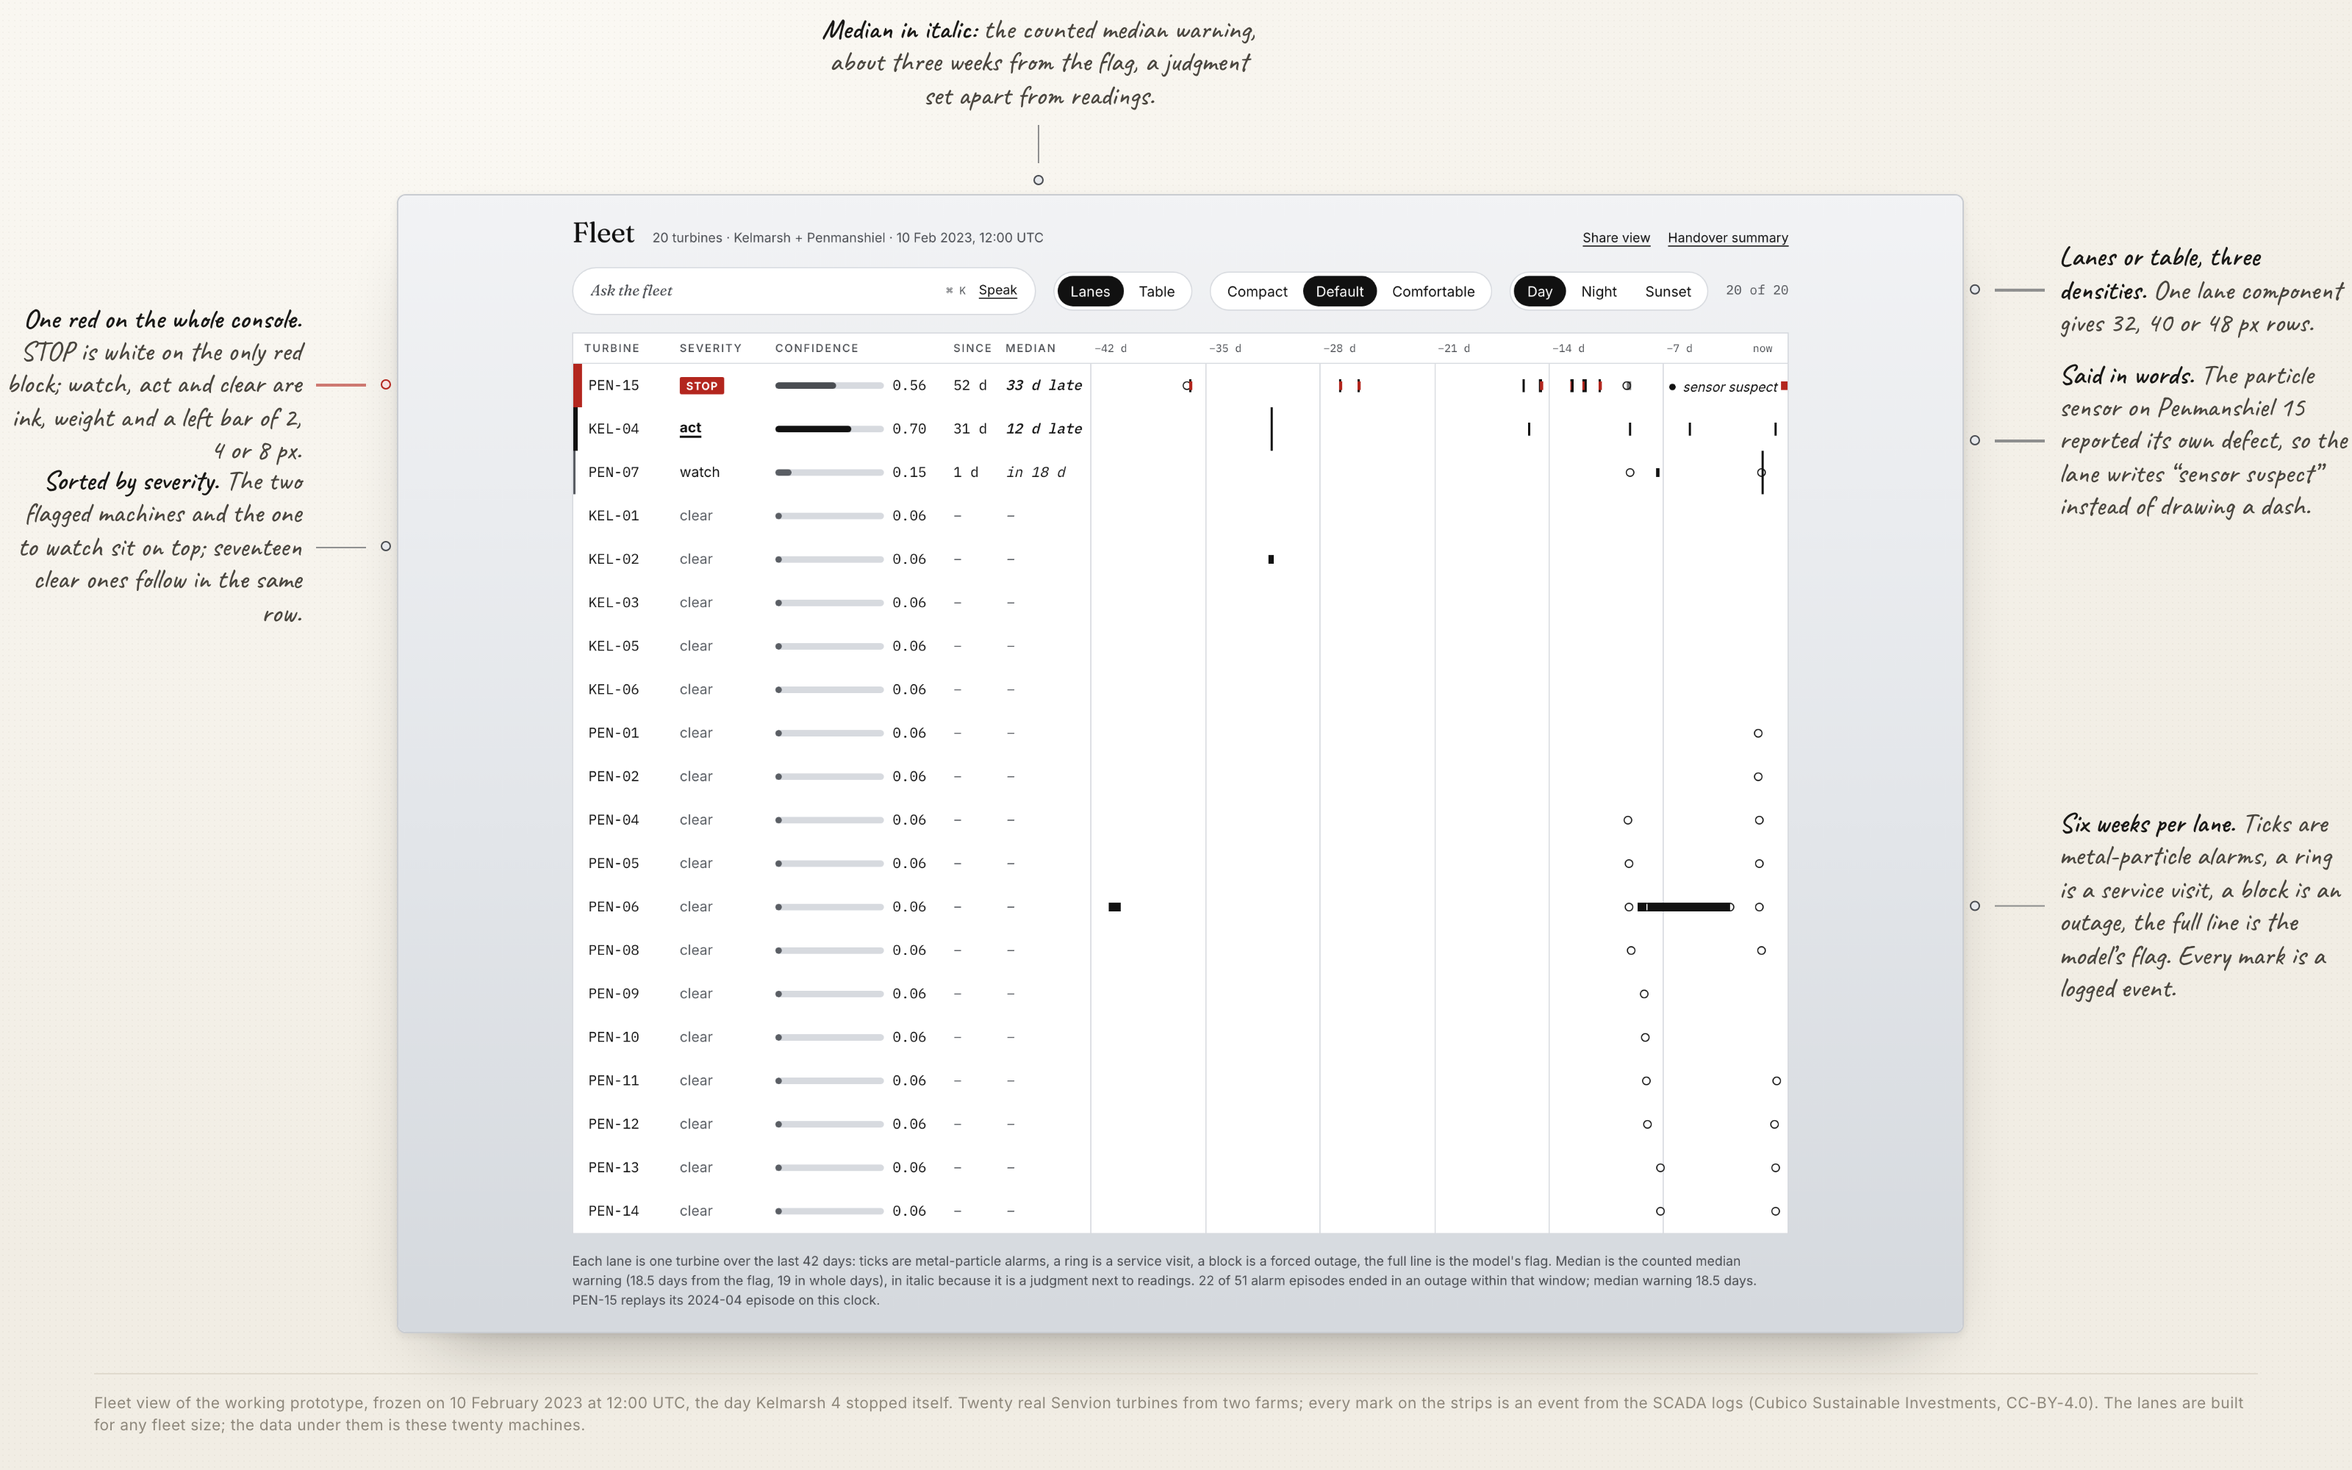
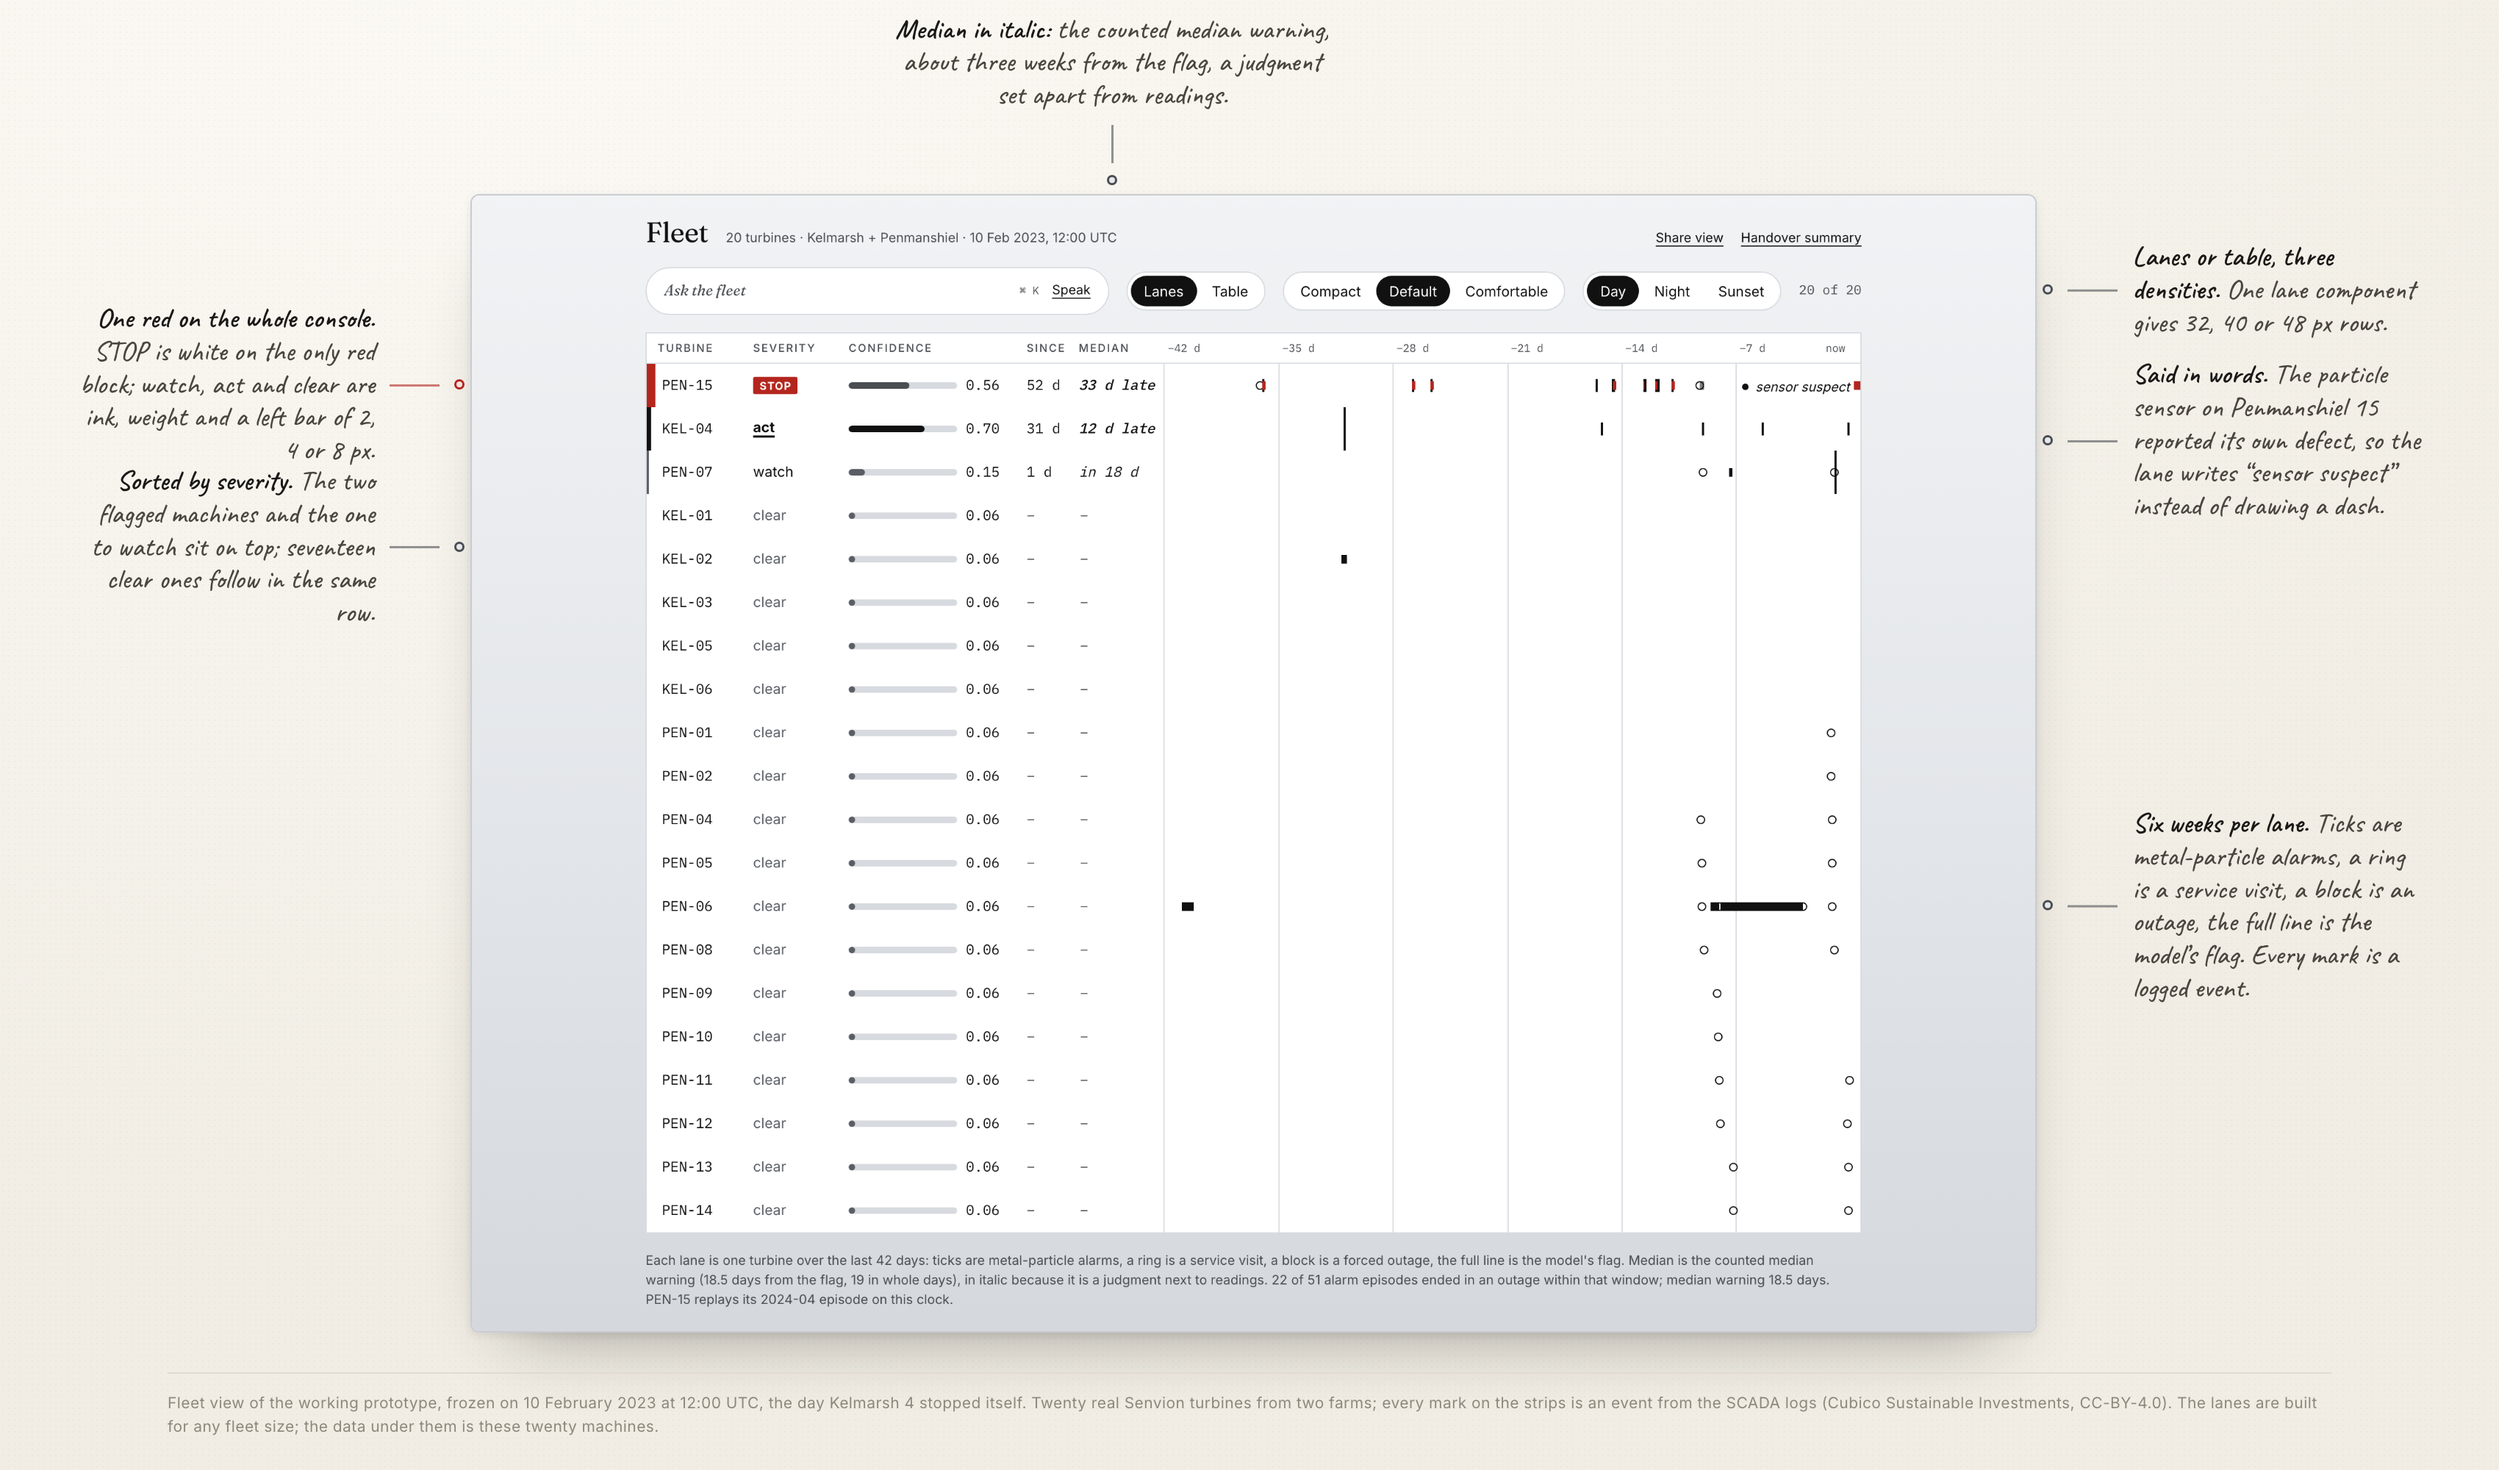
Case studies: photos and fleet-console plates share the wide column
One photo per case study (repapp's context shot, red-thread's evidence
diagram, fleet-console's tablet-on-site photo) gets the wide figure
treatment already used elsewhere, via the wide class in the markup and
wide:true in ASSETS. Six of the seven fleet-console plates are
re-rendered at the matching 3400px canvas so they fill that column
without looking narrower than the photos next to them.

a11y.png/webp is left out: the wider canvas broke its side-note
layout, with two annotations overlapping the chart and the keyboard-
path text. It needs a fresh render before it can join this change.

diff --git a/fleet-console.html b/fleet-console.html
@@ -514,7 +514,7 @@ footer.foot .next-h em{font-style:italic;color:var(--accent);}
       <h2 class="h">The library exists so that one number cannot contradict itself on two screens</h2><p><strong>The base primitives come from the shadcn/ui kit.</strong> I did not redraw them. A button, an input, a radio group, a text area: that is plumbing, and&nbsp;drawing it again proves nothing. Everything the project exists for sits above that line, and&nbsp;that part is mine. The density scale. The lane and&nbsp;its marks. The data cell. The chart palette. The confidence bar and&nbsp;panel. The provenance line. The override path. The severity matrix. Twenty-seven component sets in all.</p><p><strong>Variables first, components second.</strong> Colour, spacing, type, radius and&nbsp;motion live as Figma variables in six collections. Every component reads them. None carries a value of its own. Colour is a decision as much as a token: black, white, metallic grey and&nbsp;one red, spent only on STOP. A red-and-green pair fails colour-blind operators, and&nbsp;“clear” has to stay quiet. The same 24 tokens give two modes, paper on metal by day and&nbsp;graphite by night. The console switches at the wind farm’s own sunset. Density is a mode too, so one lane draws at three row heights without a second component.</p><p><strong>The chain runs one way.</strong> Figma variables become CSS custom properties. Those become a Tailwind theme. The prototype reads the theme. The variables export to a JSON file that generates the theme, so nothing in the code carries a colour, a size or a duration of its own. Change a value in one place and&nbsp;the other cannot quietly disagree. That is why the system was drawn before the prototype, not traced back from it afterwards.</p></div><figure class="fig reveal wide">
       <img src="fleet-console/assets/system.webp" alt="The library as the prototype sees it: the 24 colour tokens in both modes, the three densities, the components drawn by the console’s own compiled stylesheet, the same lane at three row heights, and one token followed from a Figma variable to a component." loading="lazy">
       <figcaption><span>The library as the prototype sees it: the 24 colour tokens in both modes, the three densities, the components drawn by the console’s own compiled stylesheet, the same lane at three row heights, and&nbsp;one token followed from a Figma variable to a component.</span></figcaption>
-    </figure><figure class="fig reveal">
+    </figure><figure class="fig reveal wide">
       <img src="fleet-console/assets/photo-tablet-day.webp" alt="The technician’s side of the same system: a tablet on site, where the service order arrives. Staged image." loading="lazy">
       <figcaption><span>The technician’s side of the same system: a tablet on site, where the service order arrives. Staged image.</span></figcaption>
     </figure></section><section class="sec" id="unsure"><div class="col">
@@ -716,7 +716,7 @@ const ASSETS = {
     cap:{en:'The setting: a turbine field at the end of the day, where the model’s number lands on somebody’s screen. Staged image, not a photograph of the farms in the data.',
          no:'Stedet: et turbinfelt på slutten av dagen, der modellens tall lander på noens skjerm. Iscenesatt bilde, ikke et fotografi av parkene i dataene.',
          es:'El escenario: un campo de turbinas al final del día, donde el número del modelo aterriza en la pantalla de alguien. Imagen escenificada, no una fotografía de los parques de los datos.'} },
-  tabletDay:{ type:'img', src:'fleet-console/assets/photo-tablet-day.webp',
+  tabletDay:{ type:'img', wide:true, src:'fleet-console/assets/photo-tablet-day.webp',
     cap:{en:'The technician’s side of the same system: a tablet on site, where the service order arrives. Staged image.',
          no:'Teknikerens side av det samme systemet: et nettbrett ute i felt, der serviceordren kommer. Iscenesatt bilde.',
          es:'El lado del técnico del mismo sistema: una tableta a pie de parque, donde llega la orden de servicio. Imagen escenificada.'} },

diff --git a/red-thread.html b/red-thread.html
@@ -567,7 +567,7 @@ footer.foot .next-h em{font-style:italic;color:var(--accent);}
       <figcaption><span>The Storting in Oslo, where the 2022 cooperation duty was written. Photo: Leonhard Lenz, Wikimedia Commons, CC0.</span></figcaption>
     </figure></section><section class="sec" id="evidence"><div class="col">
       <div class="eyebrow"><b>05</b> · The evidence</div>
-      <h2 class="h">Norway even measured it, and&nbsp;the honest result pointed somewhere new</h2><p>Few countries test their own reforms this rigorously. Between 2017 and&nbsp;2020 Norway trialled a structured model for the team around the pupil across 37 schools, with extra school-nurse time. It was run as <strong>a randomised study</strong>. Collaboration between the adults improved on several measures. <strong>The effect on pupils’ own learning environment was not significant.</strong> That honesty is the gift here. The people around the child were working together better. <strong>The thing the child carries had still not caught up.</strong></p></div><figure class="fig reveal">
+      <h2 class="h">Norway even measured it, and&nbsp;the honest result pointed somewhere new</h2><p>Few countries test their own reforms this rigorously. Between 2017 and&nbsp;2020 Norway trialled a structured model for the team around the pupil across 37 schools, with extra school-nurse time. It was run as <strong>a randomised study</strong>. Collaboration between the adults improved on several measures. <strong>The effect on pupils’ own learning environment was not significant.</strong> That honesty is the gift here. The people around the child were working together better. <strong>The thing the child carries had still not caught up.</strong></p></div><figure class="fig reveal wide">
       <img src="red-thread/assets/evidence.webp" alt="The trial drawn whole: 37 schools randomised between the team model and usual practice; three years later the adults’ sense of collaboration had risen, and the pupil’s own environment had not moved." loading="lazy">
       <figcaption><span>The trial drawn whole: 37 schools randomised between the team model and&nbsp;usual practice; three years later the adults’ sense of collaboration had risen, and&nbsp;the pupil’s own environment had not moved.</span></figcaption>
     </figure></section><section class="sec" id="reframe"><div class="col">
@@ -818,7 +818,7 @@ const ASSETS = {
          no:'Stortinget i Oslo, der samarbeidsplikten fra 2022 ble vedtatt. Foto: Leonhard Lenz, Wikimedia Commons, CC0.',
          es:'El Storting en Oslo, donde se redactó el deber de cooperación de 2022. Foto: Leonhard Lenz, Wikimedia Commons, CC0.'} },
 
-  evidence:{ type:'img', src:'red-thread/assets/evidence.webp',
+  evidence:{ type:'img', wide:true, src:'red-thread/assets/evidence.webp',
     cap:{en:'The trial drawn whole: 37 schools randomised between the team model and usual practice; three years later the adults’ sense of collaboration had risen, and the pupil’s own environment had not moved.',
          no:'Studien tegnet hel: 37 skoler randomisert mellom lagmodellen og vanlig praksis; tre år senere hadde de voksnes opplevelse av samarbeid steget, og elevens eget miljø hadde ikke flyttet seg.',
          es:'El ensayo dibujado entero: 37 escuelas aleatorizadas entre el modelo de equipo y la práctica habitual; tres años después, la sensación de colaboración entre los adultos había subido, y el entorno del propio alumno no se había movido.'} },

diff --git a/repapp.html b/repapp.html
@@ -503,7 +503,7 @@ footer.foot .next-h em{font-style:italic;color:var(--accent);}
 
   <article id="article"><!--prerendered--><section class="sec" id="origin"><div class="col">
       <div class="eyebrow"><b>01</b> · Origin</div>
-      <h2 class="h">Nobody had designed anything for the destination reps yet</h2><p>The project surfaced during Itaka’s platform redesign. The destination reps meet flights, run transfers and&nbsp;sell excursions across <strong>more than 100 destinations</strong>. <strong>No one had built a tool for them.</strong> That gap became a brief.</p></div><figure class="fig reveal">
+      <h2 class="h">Nobody had designed anything for the destination reps yet</h2><p>The project surfaced during Itaka’s platform redesign. The destination reps meet flights, run transfers and&nbsp;sell excursions across <strong>more than 100 destinations</strong>. <strong>No one had built a tool for them.</strong> That gap became a brief.</p></div><figure class="fig reveal wide">
       <img src="RepApp/assets/photo-context.webp" alt="A destination rep with the printed Itaka clipboard and pen. The guest-facing job, and the paper tool, that no one had yet designed for." loading="lazy">
       <figcaption><span>A destination rep with the printed Itaka clipboard and&nbsp;pen. The guest-facing job, and&nbsp;the paper tool, that no one had yet designed for.</span></figcaption>
     </figure></section><section class="sec" id="paper"><div class="col">
@@ -748,7 +748,7 @@ const ASSETS = {
          no:'Sjekket inn som gruppe som standard, åpnet reisende for reisende bare når feltet krever det.',
          es:'Check-in por grupo por defecto, abierto viajero a viajero solo cuando el campo lo exige.'} },
 
-  context:{ type:'img', src:'RepApp/assets/photo-context.webp',
+  context:{ type:'img', wide:true, src:'RepApp/assets/photo-context.webp',
     cap:{en:'A destination rep with the printed Itaka clipboard and pen. The guest-facing job, and the paper tool, that no one had yet designed for.',
          no:'En destinasjonsvert med den trykte Itaka-permen og pennen. Den gjestevendte jobben, og papirverktøyet, som ingen ennå hadde designet for.',
          es:'Una representante de destino con la carpeta impresa de Itaka y un bolígrafo: el trabajo de cara al huésped, y la herramienta de papel, para los que nadie había diseñado todavía.'} },
